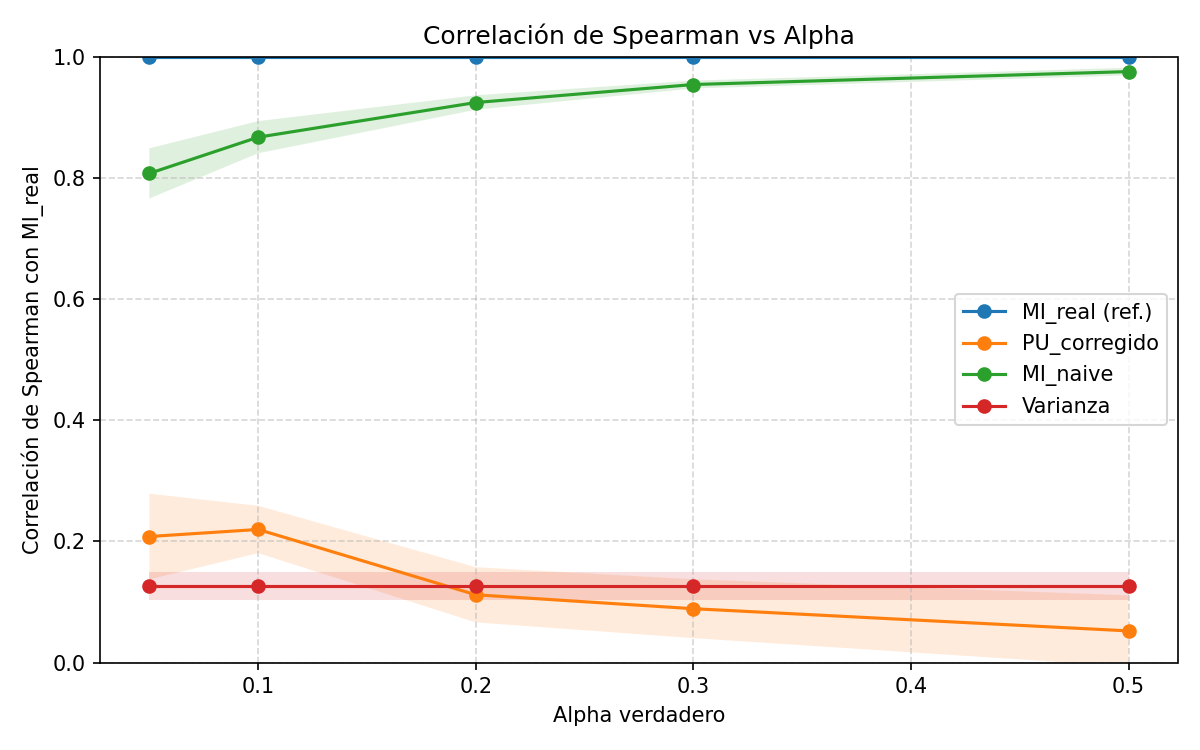
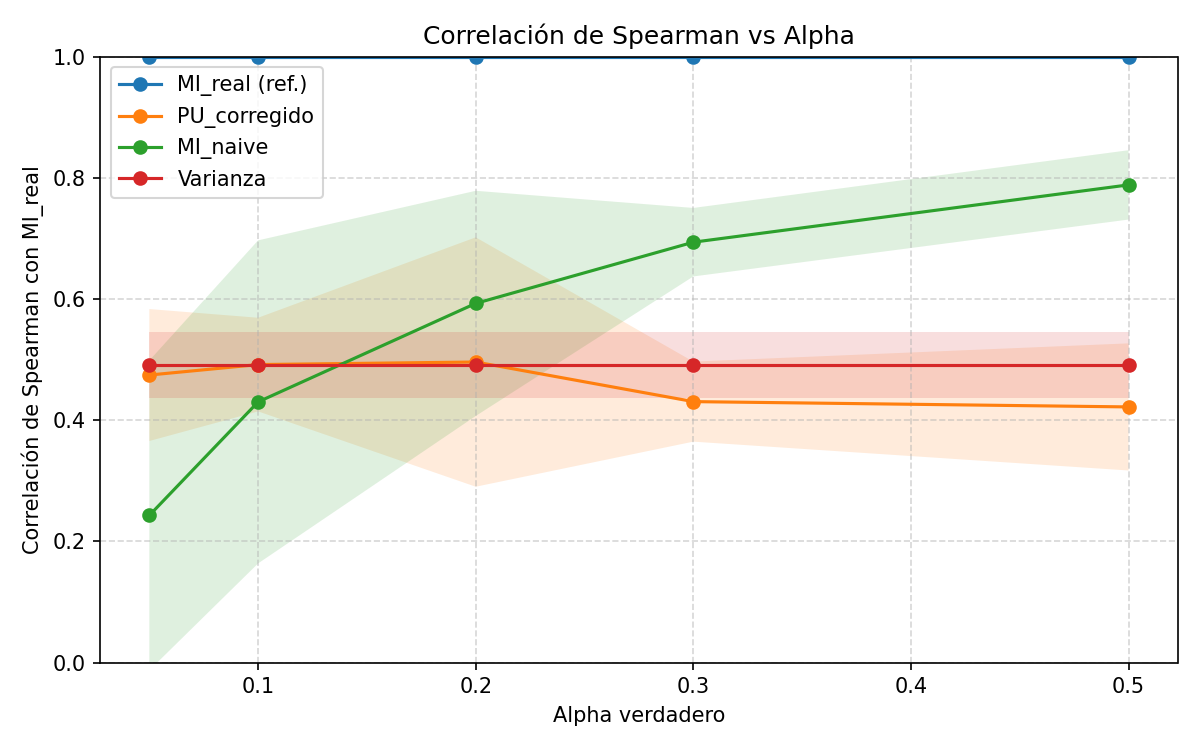
solo un batch

diff --git a/pruebas.py b/pruebas.py
@@ -1,20 +1,52 @@
-from sklearn.datasets import fetch_openml
-from sklearn.preprocessing import LabelEncoder
-import pandas as pd
+import os
 import numpy as np
+import pandas as pd
+from sklearn.datasets import load_svmlight_files
 
-# Cargar dataset
-sonar = fetch_openml(name='sonar', version=1, as_frame=False, parser='auto')
-X = sonar.data.astype(float)
-le = LabelEncoder()
-y = le.fit_transform(sonar.target)  # Mine=0, Rock=1 (alfabético)
-# Reordenar para que Mine (objeto metálico, "positivo") sea y=1
-if le.classes_[0] == 'Mine':
-    y = 1 - y
-# Nombres de características
-feature_names = sonar.feature_names
-print("DATASET CARGADO.\nNúmero de muestras:", X.shape[0], "\nNúmero de características:", X.shape[1])
+GASES = {1: 'Etanol', 2: 'Etileno', 3: 'Amoniaco', 4: 'Acetaldehído', 5: 'Acetona', 6: 'Tolueno'}
+_cache = os.path.join('data', 'gas_sensor_drift')
+feature_names = [f'sensor{(i // 8) + 1}_feat{(i % 8) + 1}' for i in range(128)]
 
-df = pd.DataFrame(X, columns=feature_names)
-print("Primeras 5 filas del dataset:\n")
-print(df.head())
+# ── Cargar cada batch por separado para poder inspeccionarlos ────────────────
+batches = []
+for i in range(1, 11):
+    parts = load_svmlight_files([os.path.join(_cache, f'batch{i}.dat')], n_features=128)
+    X_b = parts[0].toarray()
+    y_b = parts[1].astype(int)
+    df_b = pd.DataFrame(X_b, columns=feature_names)
+    df_b.insert(0, 'batch', i)
+    df_b.insert(1, 'clase', y_b)
+    df_b.insert(2, 'gas', pd.Series(y_b).map(GASES).values)
+    batches.append(df_b)
+
+df_full = pd.concat(batches, ignore_index=True)
+
+# ── Resumen global ───────────────────────────────────────────────────────────
+print("=" * 60)
+print("GAS SENSOR ARRAY DRIFT DATASET")
+print("=" * 60)
+print(f"Total muestras : {len(df_full)}")
+print(f"Features        : {len(feature_names)}")
+print(f"Batches         : 10  (aprox. 36 meses de medición)")
+print()
+
+# ── Muestras por batch y clase ───────────────────────────────────────────────
+print("── Muestras por batch ──────────────────────────────────")
+resumen = (df_full.groupby(['batch', 'gas'])
+           .size()
+           .unstack(fill_value=0)
+           .rename_axis(None, axis=1))
+resumen['TOTAL'] = resumen.sum(axis=1)
+print(resumen.to_string())
+print()
+
+# ── Primeras 5 filas (solo primeras 8 features para legibilidad) ─────────────
+print("── Primeras 5 filas del dataset (8 primeras features) ──")
+print(df_full[['batch', 'gas'] + feature_names[:8]].head().to_string(index=False))
+print()
+
+# ── Estadísticas descriptivas por batch (media global de features) ───────────
+print("── Media global de features por batch (muestra el drift) ─")
+drift = df_full.groupby('batch')[feature_names].mean().mean(axis=1).rename('media_features')
+print(drift.to_string())
+print("  → Si los valores cambian entre batch 1 y 10, hay drift de sensores.")

diff --git a/main.py b/main.py
@@ -55,7 +55,9 @@ def main():
                     with zf.open(m) as src, open(dest, 'wb') as dst:
                         dst.write(src.read())
     parts = load_svmlight_files(
-        [os.path.join(_cache, f'batch{i}.dat') for i in range(1, 11)], n_features=128
+        [os.path.join(_cache, f'batch{i}.dat')
+         for i in ([SINGLE_BATCH] if SINGLE_BATCH is not None else range(1, 11))],
+        n_features=128
     )
     X = np.vstack([parts[i].toarray() for i in range(0, len(parts), 2)])
     y_raw = np.concatenate([parts[i] for i in range(1, len(parts), 2)]).astype(int)
@@ -83,6 +85,7 @@ def main():
 
         mlflow.log_param("dataset",            "gas_sensor_drift")
         mlflow.log_param("positive_class",        "Ethanol (class 1)")
+        mlflow.log_param("single_batch",          str(SINGLE_BATCH) if SINGLE_BATCH is not None else "all")
         mlflow.log_param("n_samples",          n_samples)
         mlflow.log_param("n_features",         n_features)
         mlflow.log_param("n_positives",        n_positives)

diff --git a/src/config.py b/src/config.py
@@ -14,4 +14,7 @@ NOISE_LEVEL = 0
 # Parámetros generales
 TOP_K = 10
 EXPERIMENT_NAME = "gas_sensor_drift"
-RUN_NAME = "v1.0.0"
+RUN_NAME = "v3.0.0"
+
+# Batch único para aislar efecto drift (None = todos los batches; 1-10 = solo ese batch)
+SINGLE_BATCH = 1
